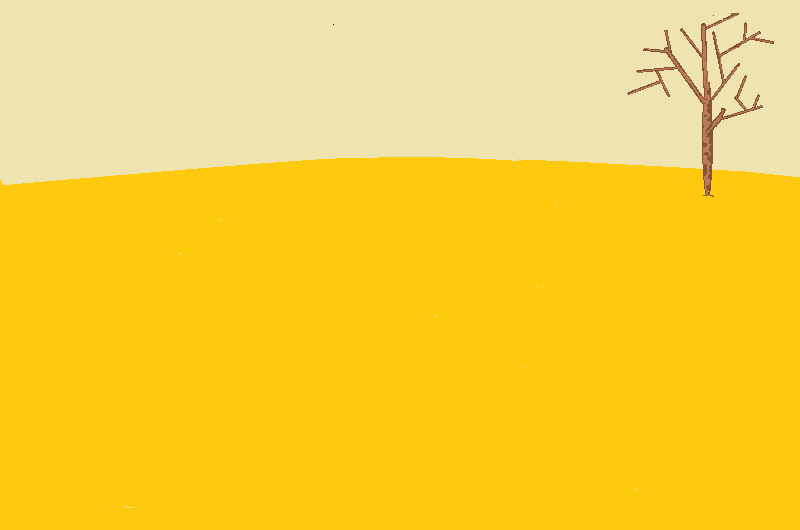
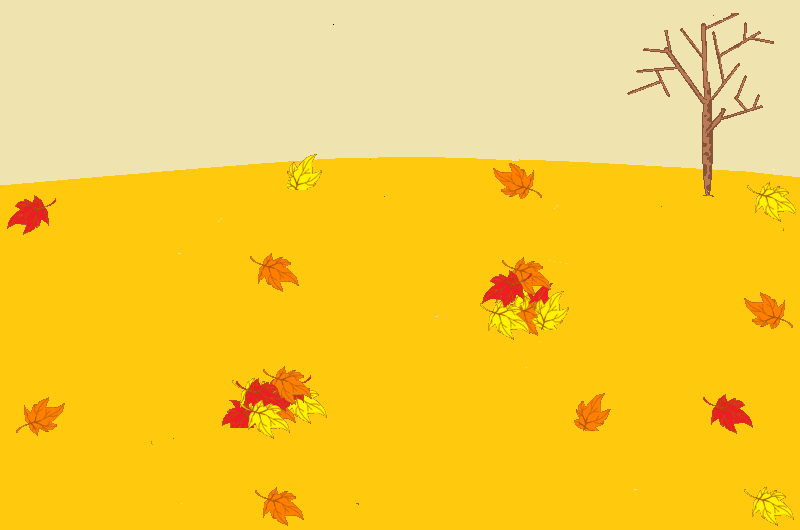
Moved autumn leaves to the background image

diff --git a/core/src/com/mygdx/game/themes/AutumnTheme.java b/core/src/com/mygdx/game/themes/AutumnTheme.java
@@ -14,15 +14,9 @@ public class AutumnTheme implements Theme {
 
     private Texture backgroundTexture;
     private RainEffect rainEffect;
-    private Texture leaves[];
 
     public AutumnTheme() {
         this.backgroundTexture = new Texture("autumn.png");
-        this.leaves = new Texture[] {
-                    new Texture("leave.png"),
-                    new Texture("leave2.png"),
-                    new Texture("leave3.png")
-        };
         this.rainEffect = new RainEffect();
     }
 
@@ -35,18 +29,6 @@ public class AutumnTheme implements Theme {
     public void draw(Batch batch) {
         Gdx.gl.glClearColor(171/255f,107/255f,72/255f,1);
         batch.draw(this.backgroundTexture, 0, 0);
-        batch.draw(leaves[0],10,20);
-        batch.draw(leaves[0],100,20);
-        batch.draw(leaves[0],100,200);
-        batch.draw(leaves[1],300,330);
-        batch.draw(leaves[1],400,120);
-        batch.draw(leaves[1],550,100);
-        batch.draw(leaves[2],650,170);
-        batch.draw(leaves[2],740,20);
-        batch.draw(leaves[2],220,20);
-        batch.draw(leaves[1],650,300);
-        batch.draw(leaves[2],700,250);
-        batch.draw(leaves[0],10,70);
         this.rainEffect.draw(batch);
     }
 
